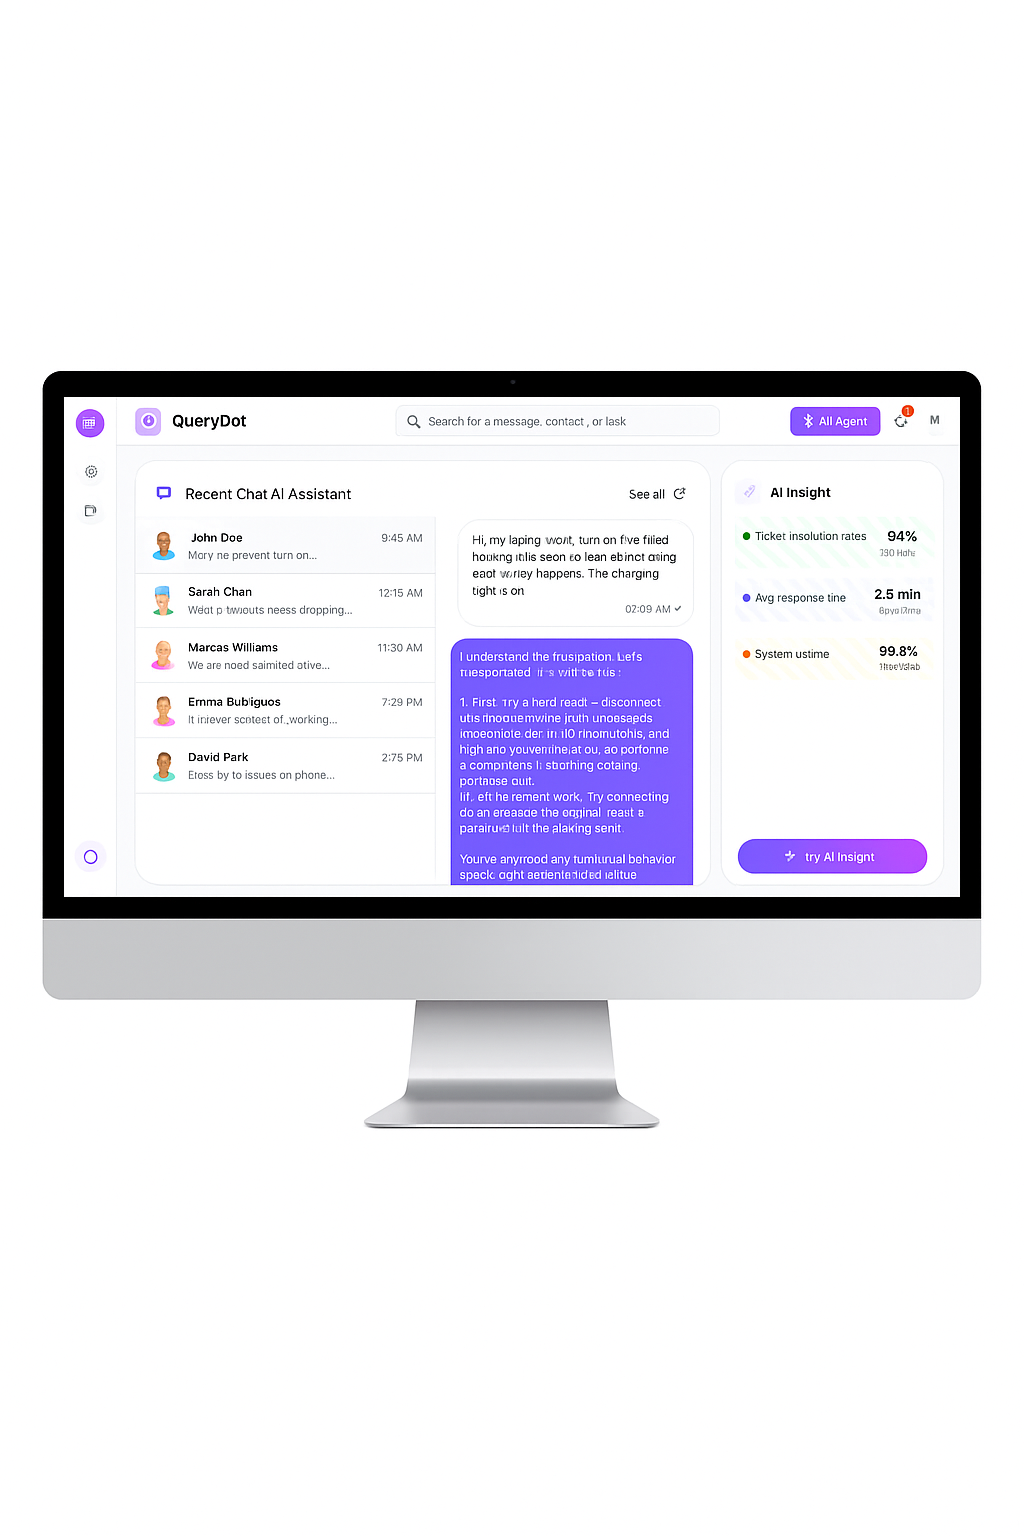
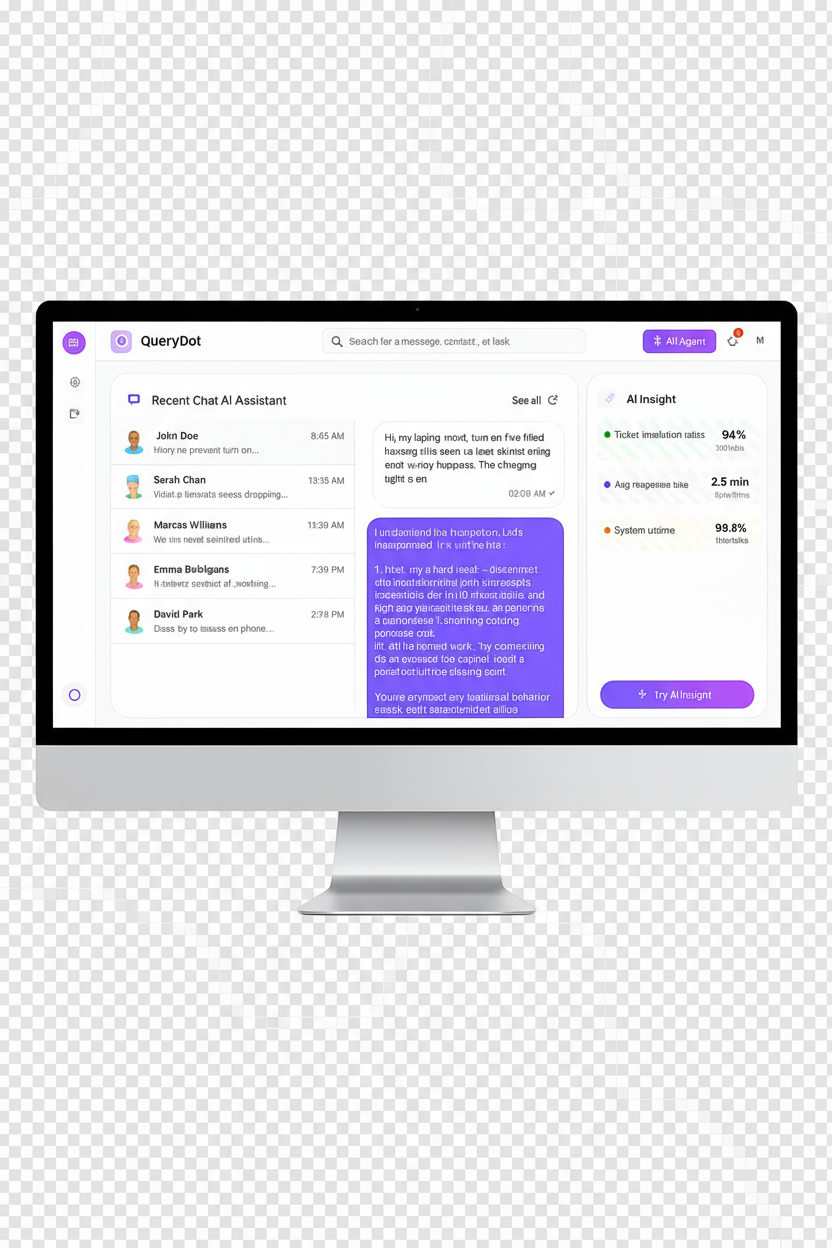
Fix: Remove background from dashboard image

diff --git a/src/components/Hero.tsx b/src/components/Hero.tsx
@@ -145,8 +145,7 @@ export const Hero = () => {
             <img 
               src={dashboardPreview} 
               alt="QueryBot Dashboard Preview" 
-              className="w-full max-w-3xl mx-auto rounded-xl shadow-2xl hover:scale-105 transition-transform duration-500 bg-transparent"
-              style={{ mixBlendMode: 'multiply' }}
+              className="w-full max-w-3xl mx-auto drop-shadow-2xl hover:scale-105 transition-transform duration-500"
             />
           </div>
         </div>
